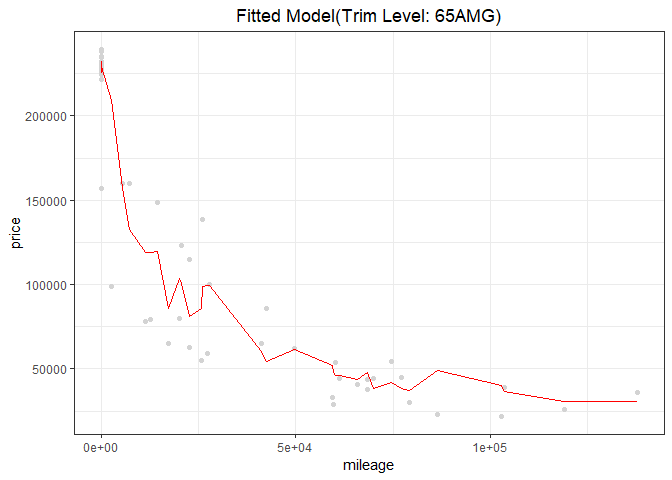
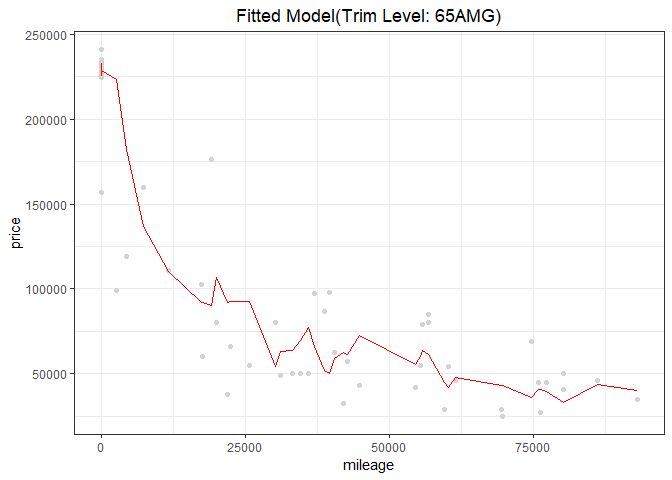
Version 4.0

diff --git a/HW1/Report/Exercise_1_Report.md b/HW1/Report/Exercise_1_Report.md
@@ -30,22 +30,28 @@ Next, we were curious if building’s age has any impact on rent. As shown in th
 
 Lastly we added one more dimension to identify data points that are relevant to our building: Amenities. Our building is for mix use with amenities such as on-site bank, convenience store, dry cleaner, restaurant, retail shops, and fitness center. It is reasonable to assume these buildings would set rent differently than ones without amenities, as more value is added.
 
-To our surprise, mid rise and high rise green buildings with amenities actually had higher rent than green buildings without amenities, as shown in the plot above. Putting this strange result aside, we will focus on the green and non-green buildings within the mid-rise group. It turns out that both types cost the same at $31 per square foot per year.
+To our surprise, mid rise and high rise green buildings with amenities actually had higher rent than green buildings without amenities, as shown in the plot above. Putting this strange result aside, we will focus on the green and non-green buildings within the mid-rise group. It turns out that rent for both types are $31 per square foot per year.
 
 <img src="Exercise_1_Report_files/figure-markdown_github/p1.8-1.png" style="display: block; margin: auto;" />
 
-In final step, we aimed to explore the relationship between stories and occupancy rate, as well as age and occupancy rate in green and non-green buildings separately.
+In our final step, we aimed to explore the relationship between stories and occupancy rate, as well as age and occupancy rate in green and non-green buildings separately.
 
-First, using all of occupancy rate data, we compared the difference of occupancy rate between green and non-green buildings, divided by low rise, medium rise and high rise category. By plotting bar charts above, we could clearly see the occupancy rate of green building building is higher than that of non-green building in each height category. Since our 15-story building falls into the mid-rise category, we can see that the occupancy rate of green building is 5% higher than that of non-green building in the long run. Thus, if we invest a 15-story green building instead of a non-green one, we can receive more occupancy rate.
+First, using all of occupancy rate data, we compared the difference of occupancy rate between green and non-green buildings, divided by low rise, medium rise and high rise category. By plotting bar charts above, we could clearly see the occupancy rate of green building is higher than non-green building in each height category. Since our 15-story building falls into the mid-rise category, we can see that the occupancy rate of green building is 5% higher than non-green building in the long run. Thus, if we invest a 15-story green building instead of a non-green one, we can expect higher occupancy rate.
 
 <img src="Exercise_1_Report_files/figure-markdown_github/p1.9-1.png" style="display: block; margin: auto;" />
 
-Then we compared the difference of occupancy rate between green and non-green buildings in different ages. We selected the buildings that are below 30 years. The occupancy rate of green buildings are almost higher than that of non-green buildings in the first 30 years from the line chart. In the first 5 years, except age 3 and age 4, the occupancy rate of green buildings is significantly below 80%. Therefore, the average occupancy rate in the first ten years will be highly likely lower than 90%, which the most pessimistic estimation by the staff. With such a lower occupancy rate, we have a great opportunity to recuperate the costs over 9 years.
+Then we compared the difference of occupancy rate between green and non-green buildings in different ages. We selected the buildings that are below 30 years. The average occupancy rate of green buildings are almost higher than non-green buildings every year in the first 30 years from the line chart. In the first 5 years, except year 3 and year 4, the occupancy rate of green buildings is significantly below 80%. Therefore, the average occupancy rate in the first ten years will be highly likely lower than 90%, the most pessimistic estimation by the staff. With such low occupancy rate, we will most likley recover the costs longer than 9 years. Finally, we calculated the duration of payback. We used the function below to calculate the duration.
+
+<img src="Exercise_1_Report_files/figure-markdown_github/formula.PNG" style="display: block; margin: auto;" />
+
+C represents baseline construction costs. For green building, C is equal to $105 million; for non-green building, C is equal to $100 million. S represents size, which is 250,000 square feet for both green and non-green buildings. R is the average market rent per square foot. According to our result above, the rent of 15-story building, which falls into the mid-rise category, is $31 per square foot per year for both green and non-green buildings. O represents the occupancy rate. The long term occupancy rates for green and non-green building are 91% and 86% respectively. Because occupancy rates for both green and non-green building in the first three years are significantly lower than 90%, we selected start-up occupancy rates for the first three years. Thus, after calculation, the duration of payback for green building is approximately 15.4 years, while the duration for non-green building is about 15.9 years.
+
+Thus, we support to build the green building for its shorter payback duration. This is much longer than the "data guru"'s estimation.
 
 Exercise 1.2
 ------------
 
-In this Question, we have the data of all the flight information of the airlines flying in and out of Austin.
+In this question, we have the data of all the flight information of the airlines flying in and out of Austin.
 
 ### What is the best time of day to fly to minimize delays?
 
@@ -53,19 +59,19 @@ After clearing the data by deleting the cancelled flights and the diverted fligh
 
 ![](Exercise_1_Report_files/figure-markdown_github/Q1.2.1-1.png)
 
-First, we categorized the data by the scheduled departure time for the flights that depart Austin. And it gave us the above picture. According to the bar plot, the flights that depart Austin at midnight (at 12:00 AM) have the most departure delay. The average delay time for each flight is 23 minutes. It goes well with our intuition, since the ticket for the night flight is usually cheaper, the airline company don’t pay much attention to the schedule. The best time to depart Austin, on the other hand, is the morning. The flights at 6:00 AM actually departed earlier than the scheduled time.
+First, we categorized the data by the scheduled departure time for the flights that depart Austin. And it gave us the above picture. According to the bar plot, the flights that depart Austin at midnight (at 12:00 AM) have the most departure delay. The average delay time for each flight is 23 minutes. It goes well with our intuition, since the ticket for the night flight is usually cheaper, the airline company don’t pay much attention to the schedule. The best time to depart Austin, on the other hand, is in the morning. The flights at 6:00 AM actually departed earlier than the scheduled time.
 
 ![](Exercise_1_Report_files/figure-markdown_github/Q1.2.2-1.png)
 
-Second, we categorized the data by the scheduled arrival time for the flights that arrive Austin. And it gave us the above picture. According to the bar plot, the flights that arrive Austin at 10:00 PM have the most arrival delay, and the average delay time for each flight is 18 minutes.The best time to arrive in Austin is the morning again. The flights at 7:00 AM arrived a little earlier than the scheduled time.
+Second, we categorized the data by the scheduled arrival time for the flights that arrive Austin. And it gave us the above picture. According to the bar plot, the flights that arrive Austin at 10:00 PM have the most arrival delay, and the average delay time for each flight is 18 minutes.The best time to arrive in Austin is in the morning again. The flights at 7:00 AM arrived a little earlier than the scheduled time.
 
 ![](Exercise_1_Report_files/figure-markdown_github/Q1.2.3-1.png)
 
-After checking the overall data, we seperated the data by airline companies, and gained the barplots for the departure delay and the arrival delay for each airline company, and the time window in which the flight has the most delay on average is labeled in red. Clearly the YV airlines has the most departure delay at 2:00 PM, which is obviously longer than any other companies’ flight.
+After checking the overall data, we seperated the data by airline companies, and gained the bar plots for the departure delay and the arrival delay for each airline company, and the time window in which the flight has the most delay on average is labeled in red. Clearly the YV airlines has the most departure delay at 2:00 PM, which is longer than any other companies’ flight.
 
 ![](Exercise_1_Report_files/figure-markdown_github/Q1.2.4-1.png)
 
-From the view of arrival delay, the time for delay of OH, OO and UA are longer than other companies. The OH flights that arrive in Austin at 7:00PM have the most arrival delay. The OH flights that arrive in Austin at 7:00 PM have the most arrival delay. The OO flights that arrive in Austin at 9:00 PM have the most arrival delay. And the UA flights that arrive in Austin at 12:00 AM have the most arrival delay.
+From the view of arrival delay, the time for delay of OH, OO and UA significantly worse than other companies. The OH flights have worst arrival delay at 7:00PM; The OO flights have worst arrival delay at 9:00PM. And the UA flights have worst arrival delay at 12:00AM.
 
 ### What is the best time of year to fly to minimize delays?
 
@@ -73,23 +79,23 @@ Similar to the first part, we checked the best and worst time of the year to fly
 
 ![](Exercise_1_Report_files/figure-markdown_github/Q1.2.5-1.png)
 
-Clearly, December and March are the two worst months to fly out of Austin. Each flight delays about 13 minutes in December, and 12 minutes in March on average. The best time to departure Austin, on the other hand, is September and October.
+Clearly, December and March are the two worst months to fly out of Austin. Each flight delays about 13 minutes in December, and 12 minutes in March on average. The best months to fly out of Austin, on the other hand, is September and October.
 
 ![](Exercise_1_Report_files/figure-markdown_github/Q1.2.6-1.png)
 
-When we look at the flight arriving in Austin, things didn’t change much. December and March are still the two worst months to fly into Austin. Each flight delays about 15 minutes in December, and 12 minutes in March on average. The best time to departure Austin is still September and October. Hence if you want to visit Austin, try to come in the fall, so that there will be no annoying flight delays!
+When we look at the flights arriving in Austin, things did not change much. December and March are still the two worst months to fly to Austin. Each flight delays about 15 minutes in December, and 12 minutes in March on average. The best time to fly out of Austin is still September and October. Hence if you want to visit Austin, try to come in the fall, so that there will be no annoying flight delays!
 
 ### How do patterns of flights to different destinations or parts of the country change over the course of the year?
 
 ![](Exercise_1_Report_files/figure-markdown_github/Q1.2.7-1.png)
 
-Overall, the top 5 airports with most flights to Austin in 2008 are Dallas Love Field, Dallas/Fort Worth International, George Bush Intercontinental, Phoenix Sky Harbor International and Denver International airport with 5,464, 5,344, 3,651, 2,778 and 2,708 flights respectively. The top 5 destinations from Austin are exactly the same 5 in the same order with 5,442, 5,347, 3,636, 2,765 and 2,653 flights respectively. This result is represented in the heat map above.
+Overall, the top 5 airports with the most flights to Austin in 2008 are Dallas Love Field, Dallas/Fort Worth International, George Bush Intercontinental, Phoenix Sky Harbor International and Denver International airport with 5,464, 5,344, 3,651, 2,778 and 2,708 flights respectively. The top 5 destinations from Austin are exactly the same 5 in the same order with 5,442, 5,347, 3,636, 2,765 and 2,653 flights respectively. This result is represented in the heat map above.
 
 ![](Exercise_1_Report_files/figure-markdown_github/Q1.2.8-1.gif)
 
 ![](Exercise_1_Report_files/figure-markdown_github/Q1.2.9-1.gif)
 
-In terms of the patterns of flights to Austin over the course of the year, it is clear from the heat map above that flight volume increases at the beginning of the year and over the summer. This is partially due to with more airports with direct flights to Austin during this period. For example, Birmingham-Shuttlesworth International Airport and McGhee Tyson Airport only fly to Austin at the beginning of the year. And In the summer, Fort Lauderdale-Hollywood, Seattle-Tacoma International, and Indianapolis International are adding new services to Austin. Flights from Austin share the same pattern, with more flights at the beginning of year and in the summertime.
+In terms of the patterns of flights to Austin over the course of the year, it is clear from the heat map above that flight volume increases at the beginning of the year and over the summer. This is partially due to more airports with direct flights to Austin during this period. For example, Birmingham-Shuttlesworth International Airport and McGhee Tyson Airport only fly to Austin at the beginning of the year. And In the summer, Fort Lauderdale-Hollywood, Seattle-Tacoma International, and Indianapolis International are adding new services to Austin. Flights from Austin share the same pattern, with more flights at the beginning of year and in the summertime.
 
 ![](Exercise_1_Report_files/figure-markdown_github/Q1.2.7_1-1.png)
 
@@ -99,15 +105,15 @@ From the flight volume by region graph listed above, it can be seen that flights
 
 ![](Exercise_1_Report_files/figure-markdown_github/Q1.2.10-1.png)
 
-Firstly, we considered the bad airports to fly to in terms of departure delay. We calculated average departure delay time for each airport and plot the bar chart to demonstrate average departure delay for different airports. From the graph, we can clearly see that Tucson international airport (TUS) had the longest departure delay time, which is almost 70 minutes. Nashville international airport (BNA), Harlingen Valley international airport (HRL), Phoenix Sky Harbor International Airport (PHX), Chicago O’Hare international airport (ORD) ranked 2nd, 3rd, 4th and 5th among the most departure delay airports, which departure delay time is approximately 38 minutes, 28 minutes, 21 minutes and 20 minutes. Therefore, if we want to fly from Austin to above five cities, especially Tucson, we need to get preparation for the departure delay, like watching movies to kill off boring waiting time.
+First, we considered the bad airports to fly to in terms of departure delay. We calculated average departure delay time for each airport during the year and plotted the bar chart to demonstrate average departure delay for different airports. From the graph, we can clearly see that Tucson international airport (TUS) had the longest departure delay time, almost 70 minutes. Nashville international airport (BNA), Harlingen Valley international airport (HRL), Phoenix Sky Harbor International Airport (PHX), Chicago O’Hare international airport (ORD) ranked 2nd, 3rd, 4th and 5th among the most departure delay airports, which departure delay time is approximately 38 minutes, 28 minutes, 21 minutes and 20 minutes respectively. Therefore, if we want to fly from Austin to the five cities aforementioned, especially Tucson, we need to have some preparation for departure delay, like watching a movie to kill off boring waiting time.
 
 ![](Exercise_1_Report_files/figure-markdown_github/Q1.2.11-1.png)
 
-Secondly, we got the bad airports to fly to in terms of arrival delay. We calculated average departure arrival time for each airport and plot the bar chart of average arrival delay of different airports. From the graph, We can clearly see that top five most arrival delay airports are Dallas/Fort Worth International Airport (DFW), Louis Armstrong New Orleans International Airport(MSY), Hartsfield-Jackson Atlanta International Airport (ATL), Fort Lauderdale-Hollywood International Airport (FLL) and El Paso International Airport (ELP). The airport at Dallas has the longest arrival delay time, which is almost 100 minutes. As a result, if we want to fly to above five cities from Austin, especially Dallas, we need to get preparation for the arrival delay. I suffered from terrible arrival delay at Dallas. Because of over 2-hour arrival delay, I missed transfer and stayed at airport overnight. Thus, for those people who want to make a transfer at Dallas, it’s better for them to leave enough time between two flights.
+Second, we got the bad airports to fly to in terms of arrival delay. We calculated average arrival time for each airport and plotted the bar chart for average arrival delay of different airports. From the graph, We can clearly see that top 5 airports with most arrival delay are Dallas/Fort Worth International Airport (DFW), Louis Armstrong New Orleans International Airport(MSY), Hartsfield-Jackson Atlanta International Airport (ATL), Fort Lauderdale-Hollywood International Airport (FLL) and El Paso International Airport (ELP). The airport at Dallas has the longest arrival delay time, which is almost 100 minutes. As a result, if we want to fly to these five cities from Austin, especially Dallas, we should take arrival delay time into consideration, by leaving enough time especially for transfer flights.
 
 ![](Exercise_1_Report_files/figure-markdown_github/Q1.2.12-1.png)
 
-Finally, we drew Austin Flight Count Heat Map to show average arrival delay and departure delay of different airports around U.S.. On the map, the deeper the color of line is, the more delay time including departure and arrival delay of airport has. According to arrival delay, the worst airport to fly to from Austin is Dallas/Fort Worth International Airport, which is consistent with our conclusion before. Regarding to departure delay, Arizona state is the worst state to fly to, since both two biggest cities - Tucson and Phoenix have the longest delay time.
+Finally, we drew Austin Flight Delay Heat Map to show average arrival delay and departure delay of different airports around U.S.. On the map, the deeper the line color, the more delay time. According to arrival delay, the worst airport to fly to from Austin is Dallas/Fort Worth International Airport, which is consistent with our conclusion before. Regarding to departure delay, Arizona is the worst state to fly to, since its two biggest cities - Tucson and Phoenix have the worst delay time.
 
 Exercise 1.3
 ------------
@@ -116,32 +122,32 @@ In this exercise, we used K-nearest neighbors(KNN) to build a predictive model f
 
 <img src="Exercise_1_Report_files/figure-markdown_github/s350-1.png" style="display: block; margin: auto;" />
 
-We splited the data into a training and a testing set. There are 80% of the data are in the training set. Then we run the K-nearest-neighbors, for many different values of K, starting at K=3 and going as high as the sample size. For each value of K, fit the model to the training set and make predictions on the test set, and calculate the out-of-sample root mean-squared error (RMSE) for each value of K. The plot of K versus RSME is showed below:
+We splited the data into a training and a testing set. 80% of the data are in the training set. Then we run the K-nearest-neighbors, for many different values of K, starting at K=3 and going as high as the sample size. For each value of K, we fit the model to the training set and make predictions on the test set, and calculate the out-of-sample root mean-squared error (RMSE) for each K. The plot of K versus RSME is shown below:
 
 <img src="Exercise_1_Report_files/figure-markdown_github/s350p_KNNplot-1.png" style="display: block; margin: auto;" />
 
-The optimal K for trim level 350 is printed below:
+The output of the optimal K for trim level 350 is printed below:
 
-    ## [1] 5
+    ## [1] 11
 
-Since the traning set is chosen randomly, if we run the KNN for several times, we will get different result. But generally, we can get the optimal K for trim level 350 is about 19. Then for the optimal value of K in this one running, a plot of the fitted modelis shown below:
+Since the training set is chosen randomly, if we run the KNN for several times, we will get different result. But generally, the optimal K for trim level 350 is about 19. Then for the optimal value of K in this run, a plot of the fitted model is shown below:
 
 <img src="Exercise_1_Report_files/figure-markdown_github/s350p_optimalplot-1.png" style="display: block; margin: auto;" />
 
-Second, we run the KNN models for the trim level of 65 AMG similarly. Here is the plot for mileage vs price for the trim level of 65 AMG:
+Second, we run the KNN models for the trim level of 65 AMG in a similar manner. Here is the plot for mileage vs price for the 65 AMG trim level:
 
 <img src="Exercise_1_Report_files/figure-markdown_github/s65AMG-1.png" style="display: block; margin: auto;" />
 
-We splited the data into a training and a testing set. There are 80% of the data are in the training set. Then we run the K-nearest-neighbors, for many different values of K, starting at K=3 and going as high as the sample size. For each value of K, fit the model to the training set and make predictions on the test set, and calculate the out-of-sample root mean-squared error (RMSE) for each value of K. The plot of K versus RSME is showed below:
+We splited the data into a training and a testing set. 80% of the data are in the training set. Then we run the K-nearest-neighbors, for many different values of K, starting at K=3 and going as high as the sample size. For each value of K, fit the model to the training set and make predictions on the test set, and calculate the out-of-sample root mean-squared error (RMSE) for each value of K. The plot of K versus RSME is showed below:
 
 <img src="Exercise_1_Report_files/figure-markdown_github/s65AMGp_KNNplot-1.png" style="display: block; margin: auto;" />
 
-The optimal K for trim level 65 AMG is printed below:
+The output of the optimal K for trim level 65 AMG is printed below:
 
-    ## [1] 7
+    ## [1] 5
 
-Since the traning set is chosen randomly, if we run the KNN for several times, we will get different result. But generally, we can get the optimal K for trim level 65 AMG is about 16. Then for the optimal value of K in this one running, a plot of the fitted modelis shown below:
+Since the training set is chosen randomly, if we run the KNN for several times, we will get different result. But generally, the optimal K for trim level 65 AMG is about 16. Then for the optimal value of K in this run, a plot of the fitted model is shown below:
 
 <img src="Exercise_1_Report_files/figure-markdown_github/s65p_optimalplot-1.png" style="display: block; margin: auto;" />
 
-In the end, it is showed that the average optimal K for trim level 350 is 19, which is larger than optimal K = 16 for trim level 65 AMG. We think that this is because that the sample size for the first data subset is larger than the second, and hence has a larger optimal K.
+In the end, we show that the average optimal K for trim level 350 is 19, which is larger than optimal K = 16 for trim level 65 AMG. We think that this is because the sample size for the first data subset is larger than the second, and hence has a larger optimal K.
